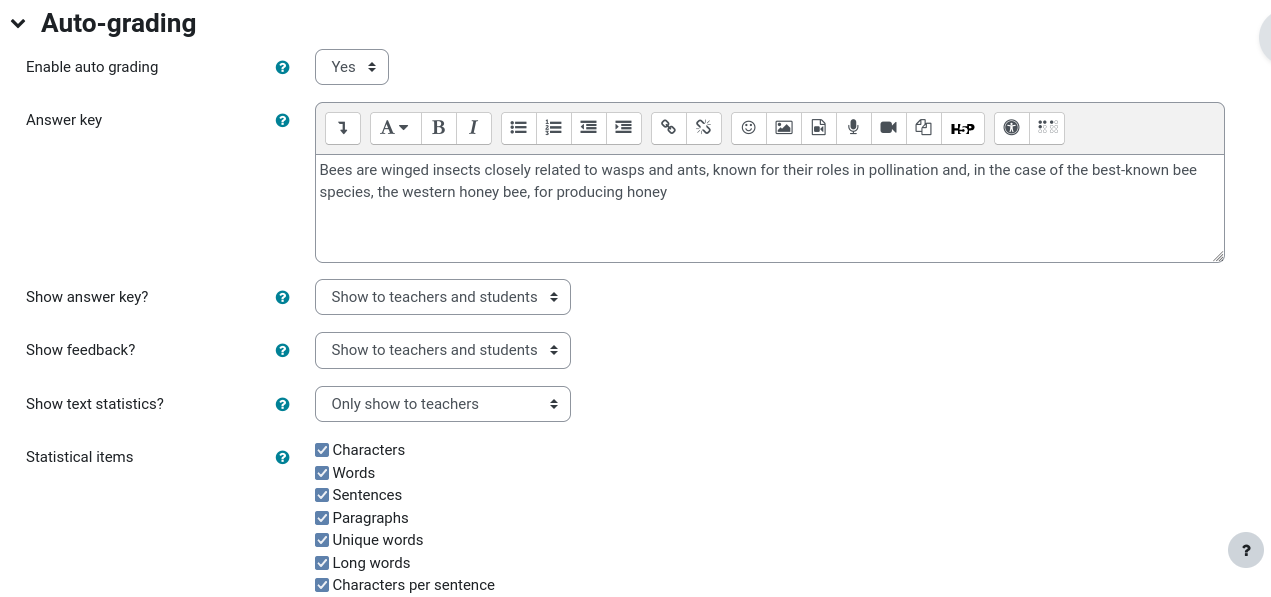
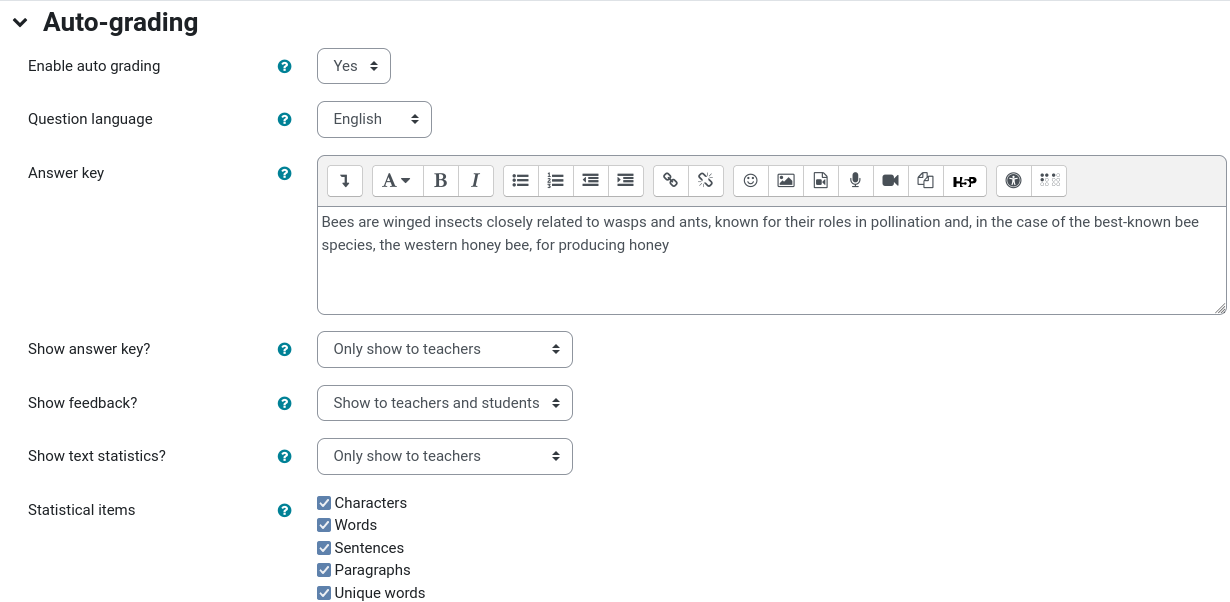
add option for choosing question language

diff --git a/edit_essaysimilarity_form.php b/edit_essaysimilarity_form.php
@@ -63,6 +63,14 @@ class qtype_essaysimilarity_edit_form extends qtype_essay_edit_form {
     $mform->setDefault($name, $this->get_default($name, 1));
     $mform->addHelpButton($name, $name, $plugin);
 
+    $name = 'questionlanguage';
+    $label = get_string($name, $plugin);
+    $mform->addElement('select', $name, $label, $this->language_options());
+    $mform->addHelpButton($name, $name, $plugin);
+    $mform->setType($name, PARAM_TEXT);
+    $mform->setDefault($name, $this->get_default($name, $this->get_constant('NO_LANG')));
+    $mform->disabledIf($name, 'enableautograde', 'eq', 0);
+    
     $name = 'answerkey';
     $label = get_string($name, $plugin);
     $mform->addElement('editor', $name, $label, [], $this->editoroptions);
@@ -140,6 +148,7 @@ class qtype_essaysimilarity_edit_form extends qtype_essay_edit_form {
     $names = [
       'autograding',
       'enableautograde',
+      'questionlanguage',
       'answerkey',
       'showanswerkey',
       'showfeedback',
@@ -162,6 +171,9 @@ class qtype_essaysimilarity_edit_form extends qtype_essay_edit_form {
     $question->showanswerkey = $question->options->showanswerkey;
     $question->showfeedback = $question->options->showfeedback;
     $question->showtextstats = $question->options->showtextstats;
+
+    // Initialize fields that has text value in question language.
+    $question->questionlanguage = $question->options->questionlanguage;
 
     // Initialize fields that has HTML editor value.
     $question->answerkey = [
@@ -186,6 +198,25 @@ class qtype_essaysimilarity_edit_form extends qtype_essay_edit_form {
     }
 
     return $question;
+  }
+
+  private function language_options() {
+    global $CFG;
+
+    $dir = $CFG->dirroot.'/question/type/essaysimilarity/nlp/preprocessing/stopword/lang';
+    $plugin = $this->plugin_name();
+
+    // get all file from preprocessing/stopword/lang and make them as options
+    $options = ['none' => get_string('language_none', $plugin)];
+
+    $files = scandir($dir);
+    $files = array_splice($files, 2);
+    foreach ($files as $file) {
+      $lang = substr($file, 0, 2);
+      $options[$lang] = get_string('language_'.$lang, $plugin);
+    }
+
+    return $options;
   }
 
   /**

diff --git a/lang/en/qtype_essaysimilarity.php b/lang/en/qtype_essaysimilarity.php
@@ -51,6 +51,9 @@ $string['lexicaldensity'] = 'Lexical density';
 $string['lexicaldensity_help'] = 'The lexical density is a percentage that measures the structure and complexity of human communication in a language';
 $string['longwords'] = 'Long words';
 $string['longwordspersentence'] = 'Long words per sentence';
+$string['language_none'] = 'None';
+$string['language_en'] = 'English';
+$string['language_id'] = 'Indonesia';
 
 $string['maximumfilecount'] = 'Maximum number of files: {$a}';
 $string['maximumfilesize'] = 'Maximum file size: {$a}';
@@ -69,6 +72,10 @@ $string['pluginnameadding'] = 'Adding an Essay Similarity Checker question';
 $string['pluginnameediting'] = 'Editing an Essay Similarity Checker question';
 $string['pluginnamesummary'] = 'Allows an essay as a question response that will be graded automatically by comparing the similarity between the response and teacher answer key. The grade may be overridden later.';
 $string['privacy:metadata'] = 'The Essay Similarity Checker question type plugin does not store any personal data.';
+
+$string['questionlanguage'] = 'Question language';
+$string['questionlanguage_help'] = 'Specify the question language for pre-processing purpose to increase the accuracy of the auto grading. If your language does not listed here, select none. See the following link to know how to add your language';
+$string['questionlanguage_link'] = 'https://github.com/thoriqadillah/essaysimilarity'; //TODO: specify link for adding language
 
 $string['responseisnotoriginal'] = 'Please provide your own answer';
 $string['requiredfilecount'] = 'Required number of files: {$a}';

diff --git a/questiontype.php b/questiontype.php
@@ -37,6 +37,11 @@ class qtype_essaysimilarity extends question_type {
   const SHOW_TEACHERS_ONLY         = 2;
   const SHOW_TEACHERS_AND_STUDENTS = 3;
 
+  /**
+   * Constant value for question language options
+   */
+  const NO_LANG = 'none';
+
   public function is_manual_graded() {
     return true;
   }
@@ -64,7 +69,8 @@ class qtype_essaysimilarity extends question_type {
       "showtextstats",
       "textstatitems",
       "responsetemplate",
-      "responsetemplateformat"
+      "responsetemplateformat",
+      "questionlanguage",
     ];
   }
 
@@ -114,6 +120,7 @@ class qtype_essaysimilarity extends question_type {
       "textstatitems"           => $textstatitems,
       "responsetemplate"        => isset($question->responsetemplate['text']) ? $question->responsetemplate['text'] : '',
       "responsetemplateformat"  => isset($question->responsetemplate['format']) ? $question->responsetemplate['format'] : 0,
+      "questionlanguage"        => isset($question->questionlanguage) ? $question->questionlanguage : self::NO_LANG,
     ];
 
     if ($oldquestion) {
@@ -165,7 +172,8 @@ class qtype_essaysimilarity extends question_type {
       "showtextstats"           => self::SHOW_TEACHERS_ONLY,
       "textstatitems"           => '',
       "responsetemplate"        => '',
-      "responsetemplateformat"  => 0
+      "responsetemplateformat"  => 0,
+      "questionlanguage"        => self::NO_LANG
     ];
   }
 

diff --git a/nlp/preprocessing/tokenizer.php b/nlp/preprocessing/tokenizer.php
@@ -16,21 +16,23 @@ class tokenizer {
    * @param string $str string to be tokenized
    * @return array $str tokenized string
    */
-  public function tokenize($str, $lang = 'en') {
-    require_once("stemmer/$lang/$lang.php");
-
+  public function tokenize($str, $lang = 'none') {
+    
     $str = $this->normalize($str);
     $stopword = new stopword($lang);
-
+    
     $token = preg_split(self::PATTERN, $str, -1, PREG_SPLIT_NO_EMPTY);
+    
+    if ($lang !== 'none') {
+      require_once("stemmer/$lang/$lang.php");
 
-    $stemmer = new en_stemmer(); //default stemmer
-    $classname = $lang . '_stemmer';
-    if (class_exists($classname)) {
-      $stemmer = new $classname();
+      $classname = $lang . '_stemmer';
+      if (class_exists($classname)) {
+        $stemmer = new $classname();
+      }
+  
+      $token = $stopword->remove_stopword($token, $stemmer);
     }
-
-    $token = $stopword->remove_stopword($token, $stemmer);
 
     return is_int(key($token)) ? array_count_values($token) : $token;
   }

diff --git a/question.php b/question.php
@@ -89,8 +89,7 @@ class qtype_essaysimilarity_question extends qtype_essay_question implements que
       $answerkeytext = $this->to_plaintext($this->answerkey, $this->answerkeyformat);
       $answerkeytext = core_text::strtolower($answerkeytext);
 
-      //TODO: add dropdown option for language of the question
-      $sim = new cosine_similarity($answerkeytext, $responsetext, 'en');
+      $sim = new cosine_similarity($answerkeytext, $responsetext, $this->questionlanguage);
       $similarity = $sim->get_similarity();
     }
 

diff --git a/nlp/preprocessing/stopword/stopword.php b/nlp/preprocessing/stopword/stopword.php
@@ -5,8 +5,10 @@ include('../stemmer/stemmer.php');
 class stopword {
   protected $stopwords = [];
 
-  public function __construct($lang = 'en') {
-    $this->stopwords = require('lang/'. $lang . '.php');
+  public function __construct($lang = 'none') {
+    if ($lang !== 'none') {
+      $this->stopwords = require("lang/$lang.php");
+    }
   }
 
   /**

diff --git a/version.php b/version.php
@@ -30,7 +30,7 @@ $plugin->cron      = 0;
 $plugin->component = 'qtype_essaysimilarity';
 $plugin->maturity  = MATURITY_STABLE;
 $plugin->requires  = 2015111600; // Moodle 3.0
-$plugin->version   = 2022040517;
+$plugin->version   = 2022040518;
 $plugin->release   = '2022-04-05 (16)';
 
 // https://docs.moodle.org/dev/Releases

diff --git a/README.md b/README.md
@@ -7,8 +7,9 @@ Is a moodle question type plugin that compares the similarity between student's 
 ![preview4](pix/preview4.png)
 ## Features
 - Auto grading
-- Statistical text
+- Question language specific (for pre-processing purpose)
 - Answer key
+- Statistical text
 - Show/hide the answer key, statistical text, and feedback to student/teacher/both
 
 ## Installation
@@ -25,6 +26,8 @@ After that go to site administration page and it should shows that new plugin is
 
 ## Uninstall
 Delete the essaysimilarity folder inside your moodle
+## Add Your Language
+TODO
 
 ## License
 [GPL v3](https://github.com/thoriqadillah/essaysimilarity/blob/main/LICENSE)
